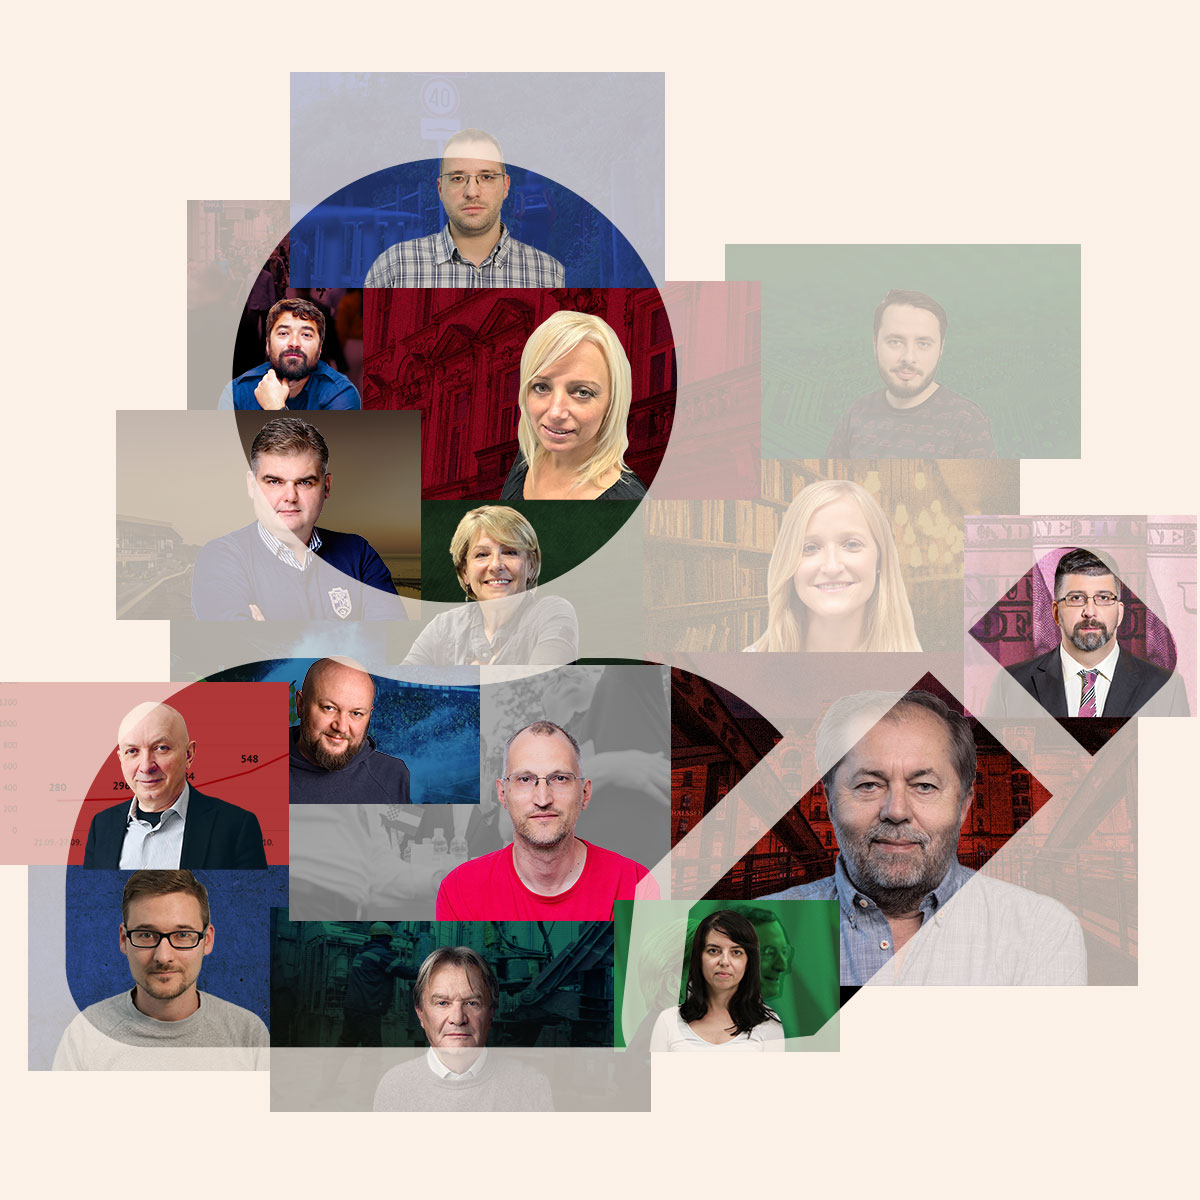
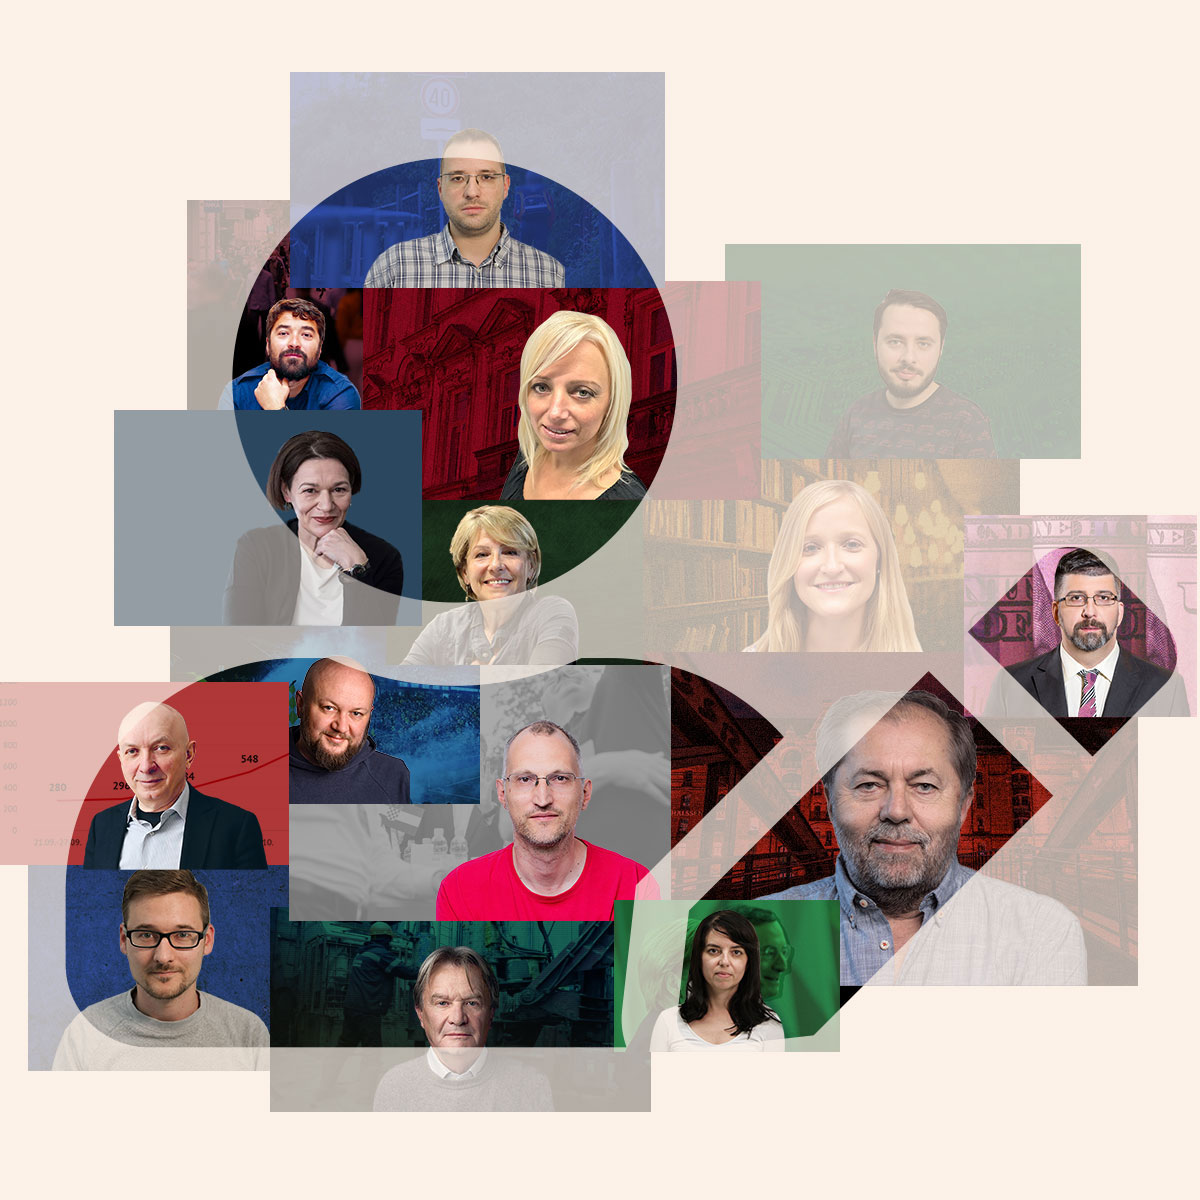
Decrease patriarchy on pretplata landing

Changed region(s): [[0.0925, 0.3392, 0.37, 0.5242]]

diff --git a/pages/pretplata/index.vue b/pages/pretplata/index.vue
@@ -483,9 +483,10 @@
               <p>
                 Telegramovu ekipu čine renomirana imena i nagrađivani novinari
                 kao što su Drago Hedl, Sanja Modrić, Andrej Dimitrijević, Ana
-                Raić Knežević, Jasmin Klarić, Marko Repecki, Dora Kršul, Goranko
-                Fižulić, Aleksandar Holiga, Mladen Pleše, Vjekoslav Skledar,
-                Đivo Đurović i mnogi drugi. A želimo se, naravno, i pojačati.
+                Raić Knežević, Jasmin Klarić, Silvana Menđušić, Dora Kršul,
+                Goranko Fižulić, Aleksandar Holiga, Mladen Pleše, Vjekoslav
+                Skledar, Đivo Đurović i mnogi drugi. A želimo se, naravno, i
+                pojačati.
               </p>
             </div>
           </div>
